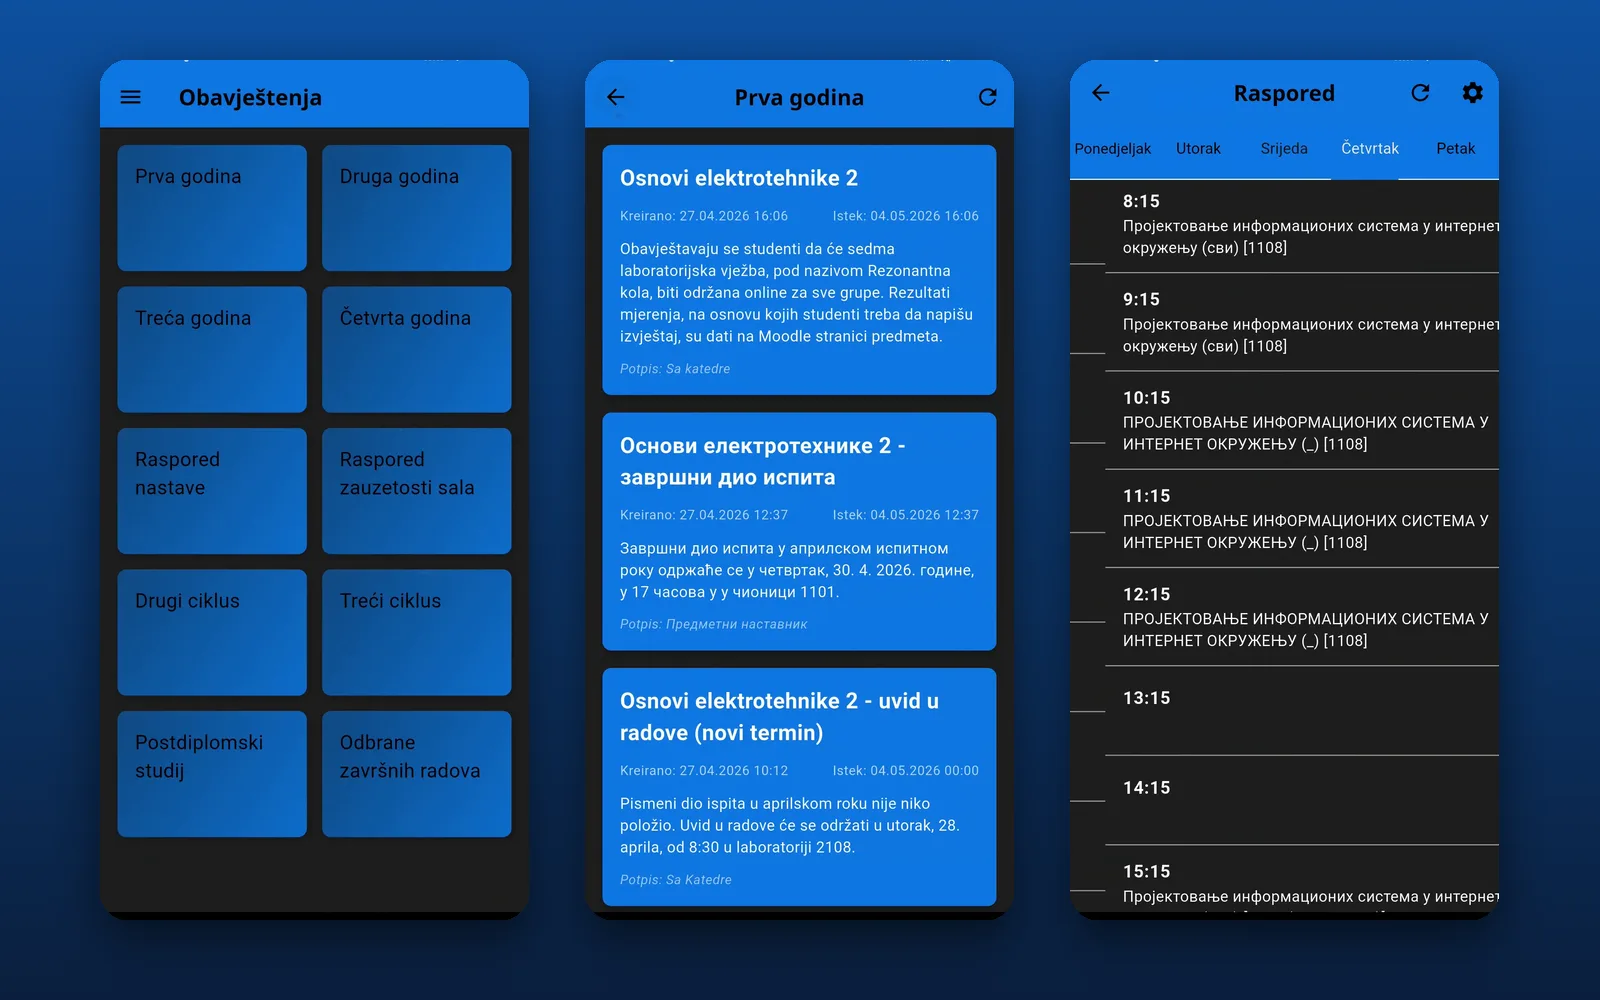
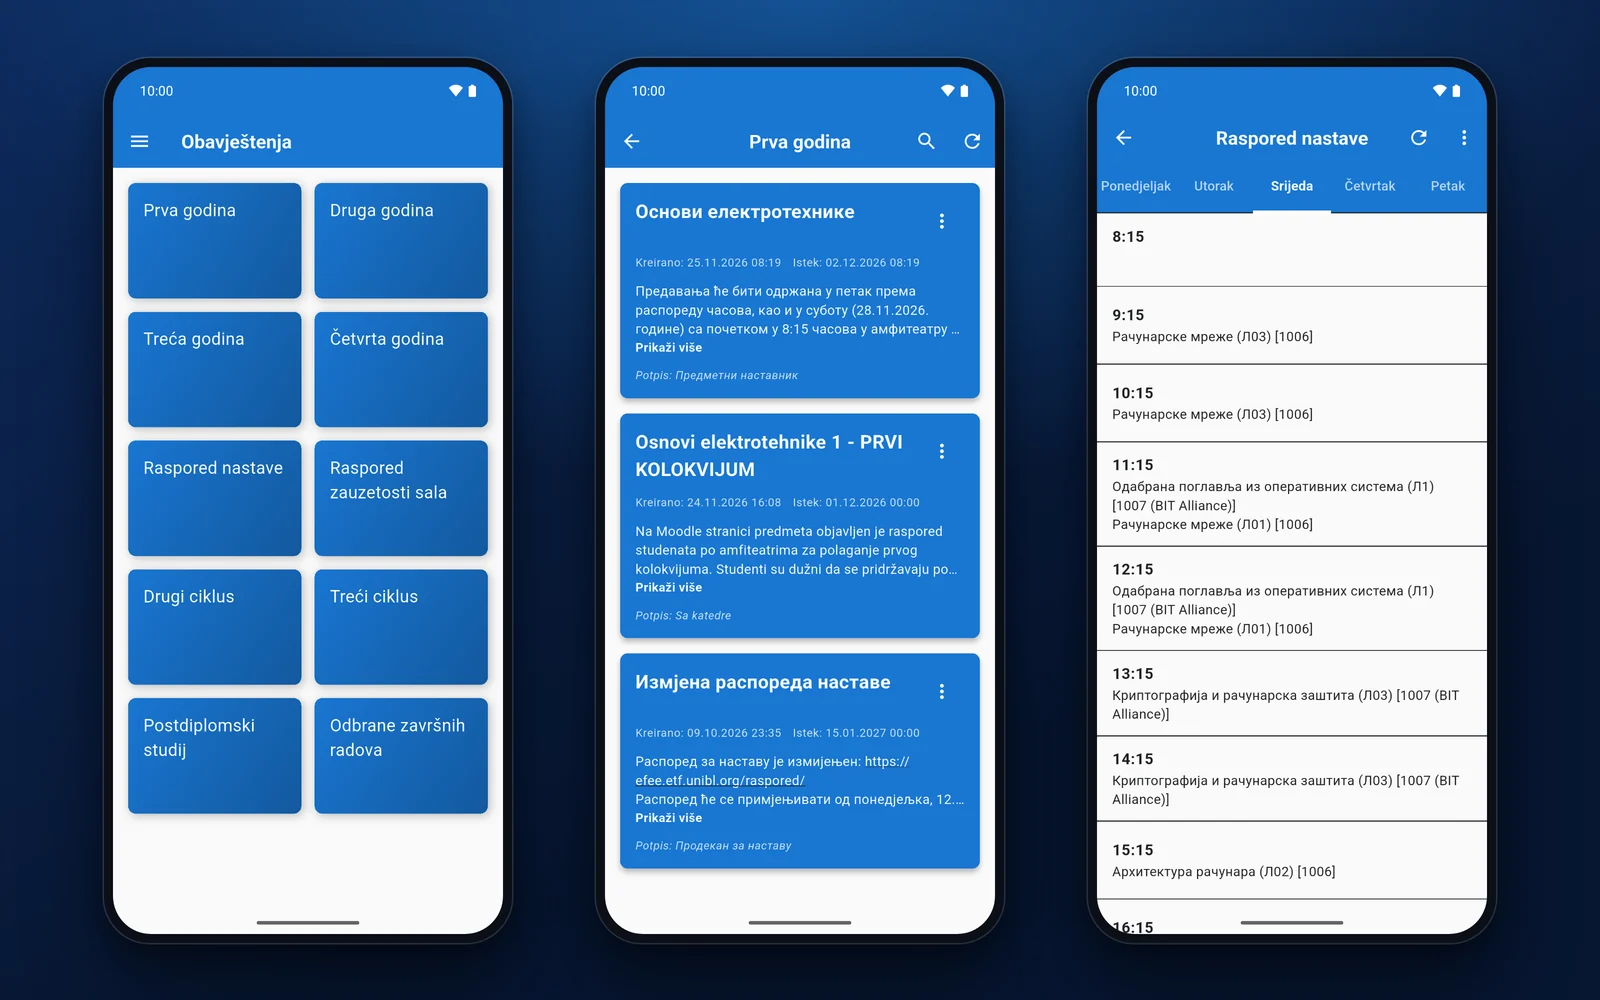
New ETF Oglasi and AssetManager previews, AssetManager in dark theme

diff --git a/src/content/projects/asset-manager.md b/src/content/projects/asset-manager.md
@@ -20,7 +20,7 @@ links:
       url: "https://github.com/pero-grubac/AssetManager"
   apk: "https://github.com/pero-grubac/AssetManager/releases/latest"
 image: "../../assets/asset_manager/preview.webp"
-imageAlt: "AssetManager: the home screen, an asset's details with its photo and barcode, and a census item showing the old and new location on OpenStreetMap"
+imageAlt: "AssetManager: the asset list, an asset's details with its photo and barcode, and a census item showing the old and new location on OpenStreetMap"
 featured: false
 caseStudy: true
 ---
